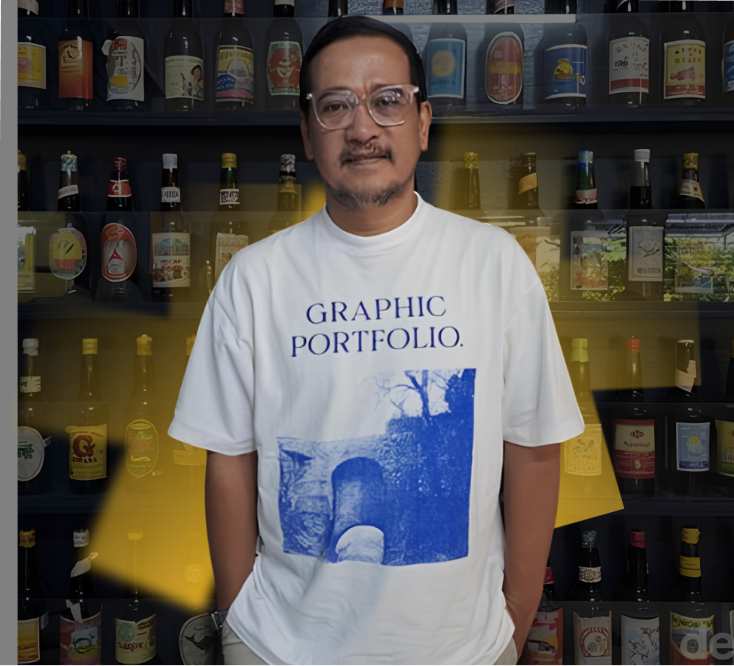
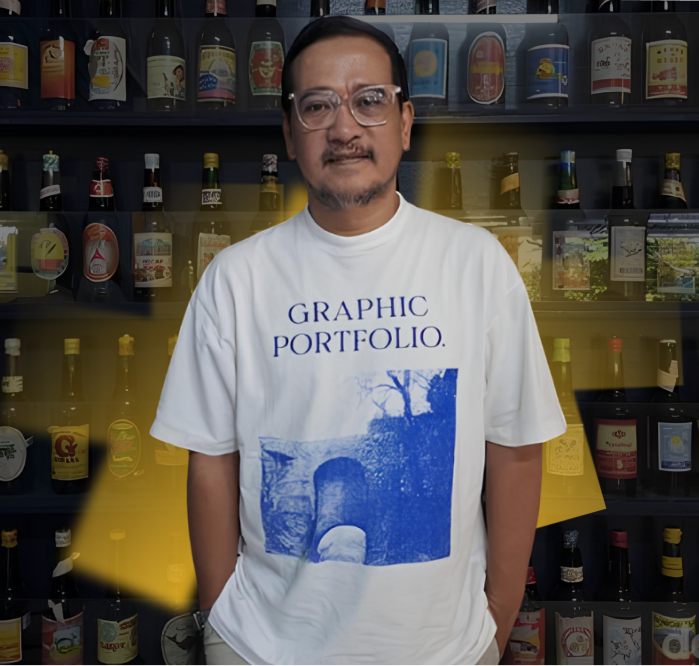
changes

diff --git a/index.html b/index.html
@@ -49,7 +49,7 @@
 <body class="bg-gray-100 font-tommy antialiased text-gray-800 min-h-screen flex flex-col">
 
     <!-- Navbar -->
-    <nav class="bg-imah-yellow py-2 px-6 md:px-12 flex justify-between items-center sticky top-0 z-50 shadow-sm">
+    <nav class="bg-imah-yellow px-6 md:px-12 flex justify-between items-center sticky top-0 z-50 shadow-sm">
         <!-- Logo Area -->
         <a href="index.html" class="flex flex-col items-center justify-center">
             <img src="assets/navicon.png" class="w-auto h-16" alt="">
@@ -58,13 +58,13 @@
         <!-- Links & Cart -->
         <div class="hidden md:flex items-center gap-4 lg:gap-8">
             <a href="index.html"
-                class="bg-imah-blue text-white px-6 py-2 rounded-full font-light tracking-wide hover:bg-blue-900 transition shadow-md">BERANDA</a>
+                class="bg-imah-blue text-white px-5 py-2 rounded-full font-light tracking-wide hover:bg-blue-900 transition shadow-md">BERANDA</a>
             <a href="cabang.html"
-                class="bg-imah-blue text-white px-6 py-2 rounded-full font-light tracking-wide hover:bg-blue-900 transition shadow-md">CABANG</a>
+                class="bg-imah-blue text-white px-5 py-2 rounded-full font-light tracking-wide hover:bg-blue-900 transition shadow-md">CABANG</a>
             <a href="produk.html"
-                class="bg-imah-blue text-white px-6 py-2 rounded-full font-light tracking-wide hover:bg-blue-900 transition shadow-md">PRODUK</a>
+                class="bg-imah-blue text-white px-5 py-2 rounded-full font-light tracking-wide hover:bg-blue-900 transition shadow-md">PRODUK</a>
             <a href="kontak.html"
-                class="bg-imah-blue text-white px-6 py-2 rounded-full font-light tracking-wide hover:bg-blue-900 transition shadow-md">KONTAK</a>
+                class="bg-imah-blue text-white px-5 py-2 rounded-full font-light tracking-wide hover:bg-blue-900 transition shadow-md">KONTAK</a>
 
             <!-- Icon placeholder for the box/cart -->
             <a href="#" class="ml-2 hover:opacity-80 transition">
@@ -96,7 +96,7 @@
     <!-- About & Philosophy Section (2x2 Grid) -->
     <section class="grid grid-cols-1 md:grid-cols-2 w-full">
         <!-- Top Left: Image of Founder -->
-        <div class="h-[40vh] md:h-auto md:min-h-[80vh] bg-cover bg-center"
+        <div class="h-full md:h-auto md:min-h-[90vh] bg-cover"
             style="background-image: url('assets/BERANDA/HERO\ IMAGE\ 2.png');">
         </div>
 

diff --git a/kontak.html b/kontak.html
@@ -49,7 +49,7 @@
 <body class="bg-white font-tommy antialiased text-gray-800 min-h-screen flex flex-col overflow-x-hidden">
 
     <!-- Navbar -->
-    <nav class="bg-imah-yellow py-2 px-6 md:px-12 flex justify-between items-center sticky top-0 z-50 shadow-sm">
+    <nav class="bg-imah-yellow px-6 md:px-12 flex justify-between items-center sticky top-0 z-50 shadow-sm">
         <!-- Logo Area -->
         <a href="index.html" class="flex flex-col items-center justify-center">
             <img src="assets/navicon.png" class="w-auto h-16" alt="">
@@ -58,13 +58,13 @@
         <!-- Links & Cart -->
         <div class="hidden md:flex items-center gap-4 lg:gap-8">
             <a href="index.html"
-                class="bg-imah-blue text-white px-6 py-2 rounded-full font-light tracking-wide hover:bg-blue-900 transition shadow-md">BERANDA</a>
+                class="bg-imah-blue text-white px-5 py-2 rounded-full font-light tracking-wide hover:bg-blue-900 transition shadow-md">BERANDA</a>
             <a href="cabang.html"
-                class="bg-imah-blue text-white px-6 py-2 rounded-full font-light tracking-wide hover:bg-blue-900 transition shadow-md">CABANG</a>
+                class="bg-imah-blue text-white px-5 py-2 rounded-full font-light tracking-wide hover:bg-blue-900 transition shadow-md">CABANG</a>
             <a href="produk.html"
-                class="bg-imah-blue text-white px-6 py-2 rounded-full font-light tracking-wide hover:bg-blue-900 transition shadow-md">PRODUK</a>
+                class="bg-imah-blue text-white px-5 py-2 rounded-full font-light tracking-wide hover:bg-blue-900 transition shadow-md">PRODUK</a>
             <a href="kontak.html"
-                class="bg-imah-blue text-white px-6 py-2 rounded-full font-light tracking-wide hover:bg-blue-900 transition shadow-md">KONTAK</a>
+                class="bg-imah-blue text-white px-5 py-2 rounded-full font-light tracking-wide hover:bg-blue-900 transition shadow-md">KONTAK</a>
 
             <!-- Icon placeholder for the box/cart -->
             <a href="#" class="ml-2 hover:opacity-80 transition">

diff --git a/cabang.html b/cabang.html
@@ -49,7 +49,7 @@
 <body class="bg-white font-tommy antialiased text-gray-800 min-h-screen flex flex-col">
 
     <!-- Navbar -->
-    <nav class="bg-imah-yellow py-2 px-6 md:px-12 flex justify-between items-center sticky top-0 z-50 shadow-sm">
+    <nav class="bg-imah-yellow px-6 md:px-12 flex justify-between items-center sticky top-0 z-50 shadow-sm">
         <!-- Logo Area -->
         <a href="index.html" class="flex flex-col items-center justify-center">
             <img src="assets/navicon.png" class="w-auto h-16" alt="">
@@ -58,13 +58,13 @@
         <!-- Links & Cart -->
         <div class="hidden md:flex items-center gap-4 lg:gap-8">
             <a href="index.html"
-                class="bg-imah-blue text-white px-6 py-2 rounded-full font-light tracking-wide hover:bg-blue-900 transition shadow-md">BERANDA</a>
+                class="bg-imah-blue text-white px-5 py-2 rounded-full font-light tracking-wide hover:bg-blue-900 transition shadow-md">BERANDA</a>
             <a href="cabang.html"
-                class="bg-imah-blue text-white px-6 py-2 rounded-full font-light tracking-wide hover:bg-blue-900 transition shadow-md">CABANG</a>
+                class="bg-imah-blue text-white px-5 py-2 rounded-full font-light tracking-wide hover:bg-blue-900 transition shadow-md">CABANG</a>
             <a href="produk.html"
-                class="bg-imah-blue text-white px-6 py-2 rounded-full font-light tracking-wide hover:bg-blue-900 transition shadow-md">PRODUK</a>
+                class="bg-imah-blue text-white px-5 py-2 rounded-full font-light tracking-wide hover:bg-blue-900 transition shadow-md">PRODUK</a>
             <a href="kontak.html"
-                class="bg-imah-blue text-white px-6 py-2 rounded-full font-light tracking-wide hover:bg-blue-900 transition shadow-md">KONTAK</a>
+                class="bg-imah-blue text-white px-5 py-2 rounded-full font-light tracking-wide hover:bg-blue-900 transition shadow-md">KONTAK</a>
 
             <!-- Icon placeholder for the box/cart -->
             <a href="#" class="ml-2 hover:opacity-80 transition">

diff --git a/produk.html b/produk.html
@@ -49,7 +49,7 @@
 <body class="bg-white font-tommy antialiased text-gray-800 min-h-screen flex flex-col">
 
     <!-- Navbar -->
-    <nav class="bg-imah-yellow py-2 px-6 md:px-12 flex justify-between items-center sticky top-0 z-50 shadow-sm">
+    <nav class="bg-imah-yellow px-6 md:px-12 flex justify-between items-center sticky top-0 z-50 shadow-sm">
         <!-- Logo Area -->
         <a href="index.html" class="flex flex-col items-center justify-center">
             <img src="assets/navicon.png" class="w-auto h-16" alt="">
@@ -58,13 +58,13 @@
         <!-- Links & Cart -->
         <div class="hidden md:flex items-center gap-4 lg:gap-8">
             <a href="index.html"
-                class="bg-imah-blue text-white px-6 py-2 rounded-full font-light tracking-wide hover:bg-blue-900 transition shadow-md">BERANDA</a>
+                class="bg-imah-blue text-white px-5 py-2 rounded-full font-light tracking-wide hover:bg-blue-900 transition shadow-md">BERANDA</a>
             <a href="cabang.html"
-                class="bg-imah-blue text-white px-6 py-2 rounded-full font-light tracking-wide hover:bg-blue-900 transition shadow-md">CABANG</a>
+                class="bg-imah-blue text-white px-5 py-2 rounded-full font-light tracking-wide hover:bg-blue-900 transition shadow-md">CABANG</a>
             <a href="produk.html"
-                class="bg-imah-blue text-white px-6 py-2 rounded-full font-light tracking-wide hover:bg-blue-900 transition shadow-md">PRODUK</a>
+                class="bg-imah-blue text-white px-5 py-2 rounded-full font-light tracking-wide hover:bg-blue-900 transition shadow-md">PRODUK</a>
             <a href="kontak.html"
-                class="bg-imah-blue text-white px-6 py-2 rounded-full font-light tracking-wide hover:bg-blue-900 transition shadow-md">KONTAK</a>
+                class="bg-imah-blue text-white px-5 py-2 rounded-full font-light tracking-wide hover:bg-blue-900 transition shadow-md">KONTAK</a>
 
             <!-- Icon placeholder for the box/cart -->
             <a href="#" class="ml-2 hover:opacity-80 transition">
